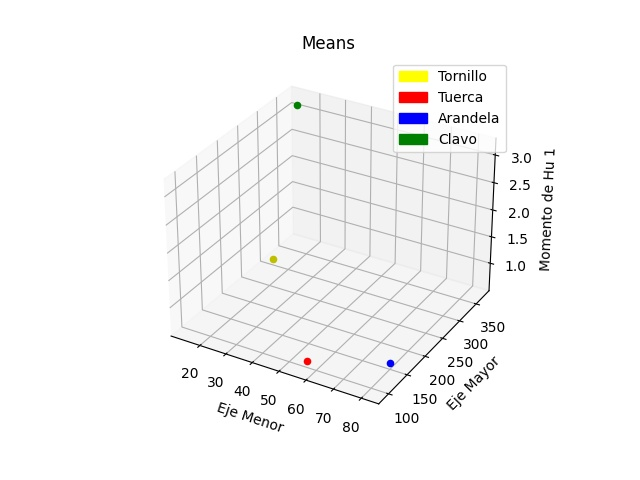
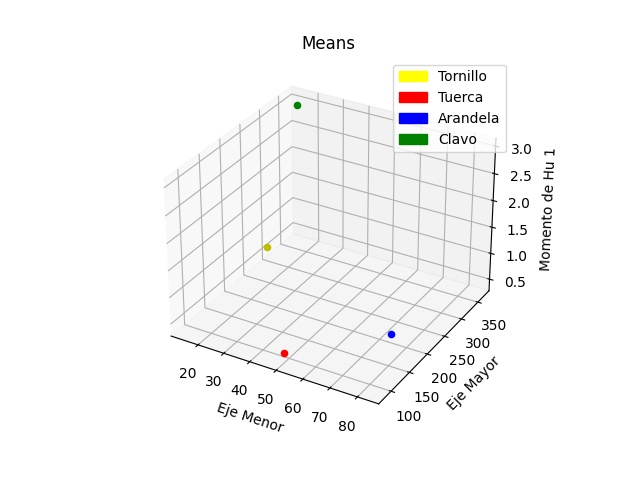
[UPDATE]Ultimas correcciones de algoritmos y pulido

diff --git a/Clasificador-de-imagenes/p7_clasificacion.py b/Clasificador-de-imagenes/p7_clasificacion.py
@@ -373,7 +373,7 @@ def clasifica(image, test, numero_caja):
         if element.pieza == 'Clavo':
             clavo_data.append(element)
     
-    # Escoger el Mean de cada categoria, centrado en un punto caracteristica
+    # Escoger el primer Mean de cada categoria, centrado en un punto caracteristica aleatorio
     tornillo_mean = list(random.choice(tornillo_data).caracteristica)
     tuerca_mean = list(random.choice(tuerca_data).caracteristica)
     arandela_mean = list(random.choice(arandela_data).caracteristica)
@@ -414,7 +414,8 @@ def clasifica(image, test, numero_caja):
 
     iter = 0
     while iter < 20:
-
+        
+        # Segmentar los datos de acuerdo a cada etiqueta, son los elementos que pertenecen a cada mean
         tornillo_data = []
         tuerca_data = []
         arandela_data = []
@@ -427,7 +428,7 @@ def clasifica(image, test, numero_caja):
             sum_arandela = 0
             sum_clavo = 0
 
-            # Calcular la distancia al mean
+            # Calcular la distancia al mean, esto se hace para cada eje
             for i in range(0, len(element.caracteristica) - 1):
                 sum_tornillo += np.power(np.abs(tornillo_mean[i] - element.caracteristica[i]), 2)
                 sum_tuerca += np.power(np.abs(tuerca_mean[i] - element.caracteristica[i]), 2)
@@ -482,7 +483,7 @@ def clasifica(image, test, numero_caja):
             sum_clavo[1] += p[1]
             sum_clavo[2] += p[2]
 
-        # Calculo la media
+        # Calculo la media de la posicion del mean de cada pieza, este seria la ubicacion del posible nuevo centroide
         tornillo_mean[0] = sum_tornillo[0] / len(tornillo_data)
         tornillo_mean[1] = sum_tornillo[1] / len(tornillo_data)
         tornillo_mean[2] = sum_tornillo[2] / len(tornillo_data)
@@ -521,12 +522,9 @@ def clasifica(image, test, numero_caja):
 
 
     # Ubicacion de los means finales en un grafico
-
-
     fig = plt.figure()
     ax1 = fig.add_subplot(111,projection='3d')
     
-
     ax1.scatter(tornillo_mean[0], tornillo_mean[1], tornillo_mean[2], c='y', marker='o')
     ax1.scatter(tuerca_mean[0], tuerca_mean[1], tuerca_mean[2], c='r', marker='o')
     ax1.scatter(arandela_mean[0], arandela_mean[1], arandela_mean[2], c='b', marker='o')

diff --git a/Apilamiento/Apilamiento.py b/Apilamiento/Apilamiento.py
@@ -141,7 +141,7 @@ def Solucion(Posicion_Inicial,Caja_1,Caja_2,Caja_3,Caja_4): #Secuencia de pasos 
                     secuencia += "Soltar(" + mover_pieza + ","+ mesas[i+1]+") \n"
                     costo +=1
                     Orden.append(Posicion_Inicial[cant_cajas-1-i])
-            print(Orden) #orden sobre la mesa de derecha a izquierda
+            #print(Orden) #orden sobre la mesa de derecha a izquierda
 
 
 
